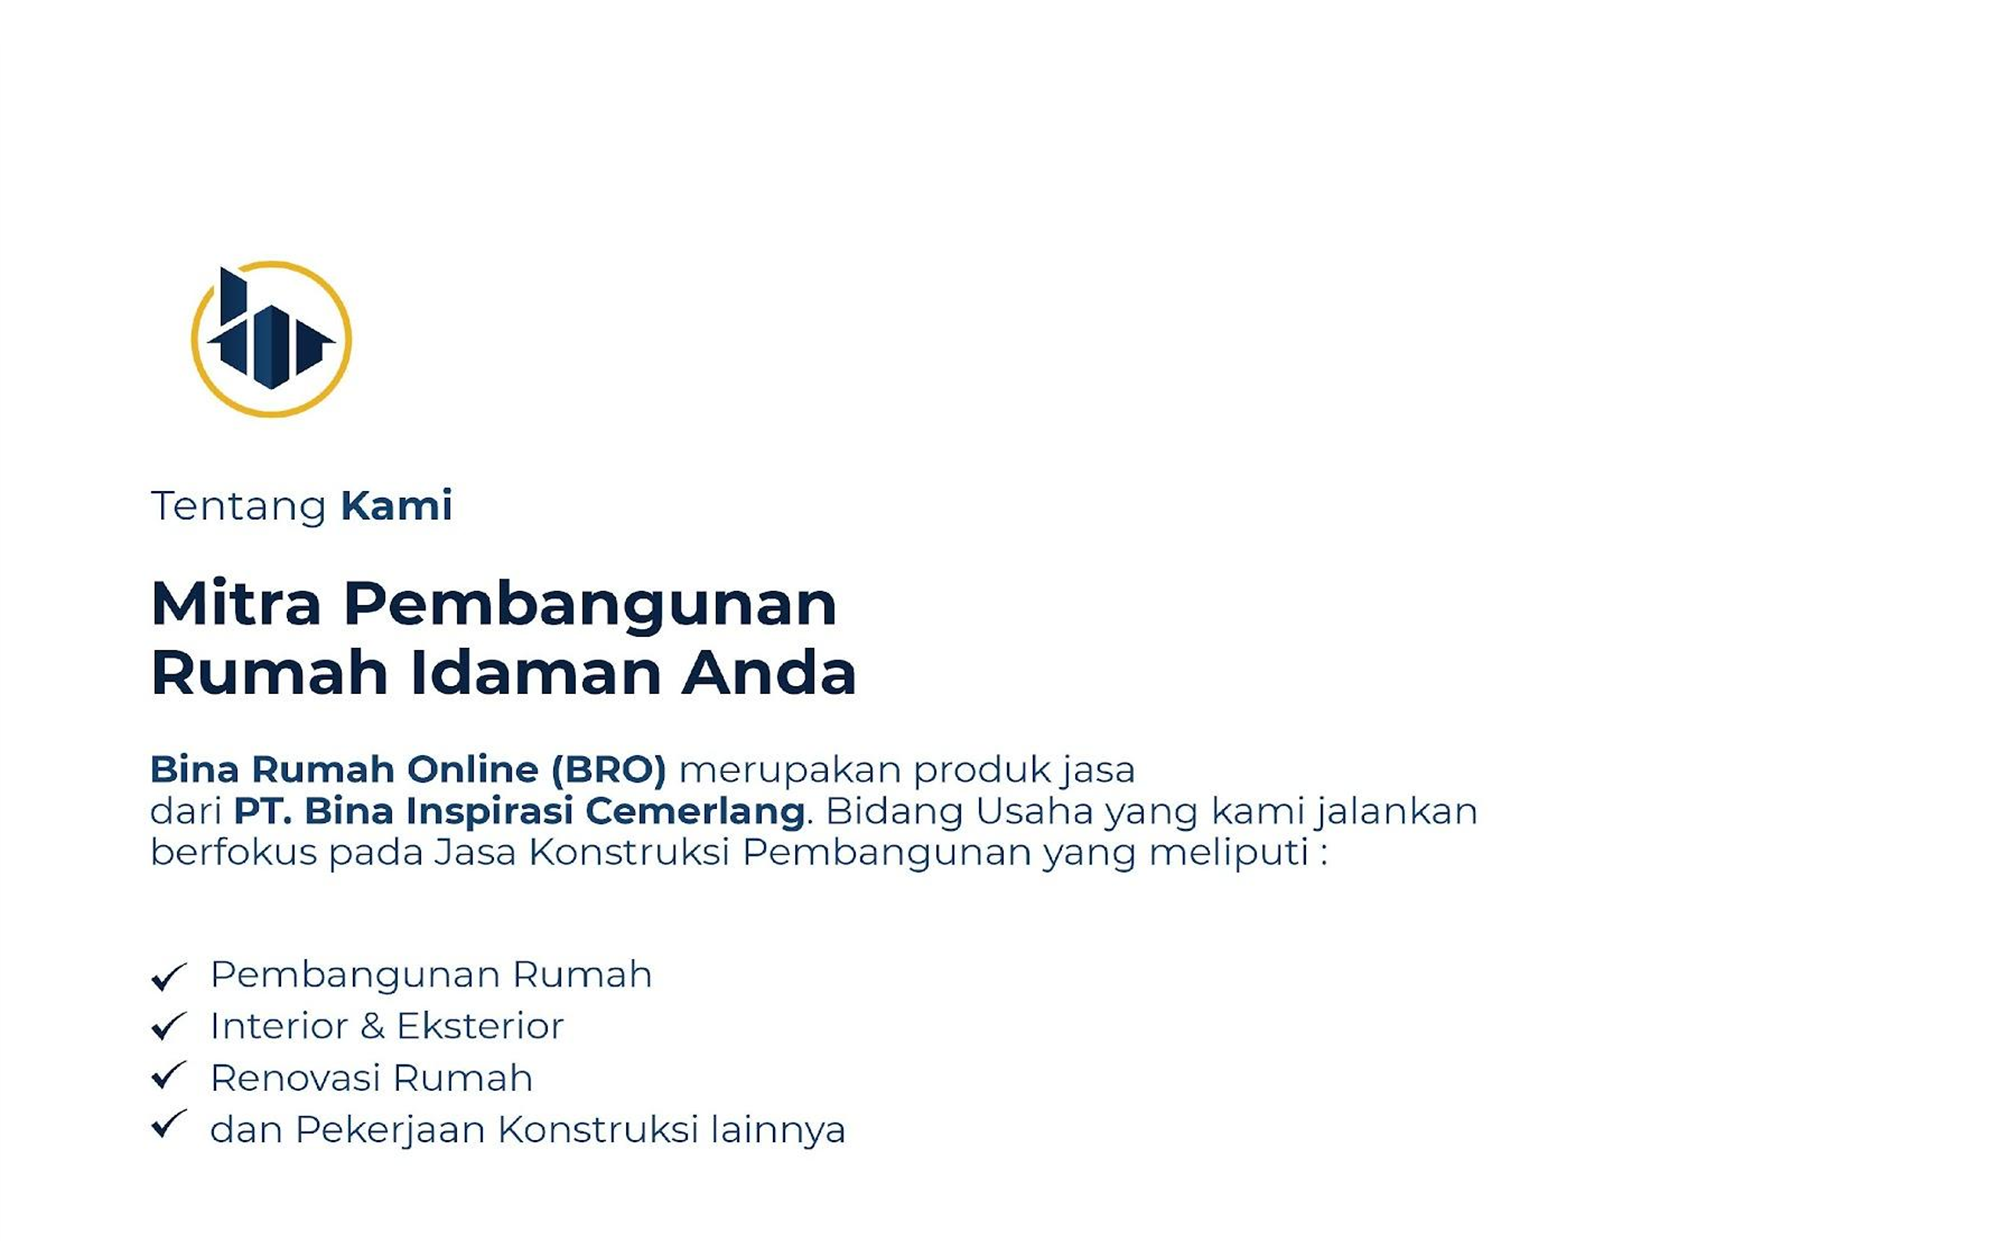
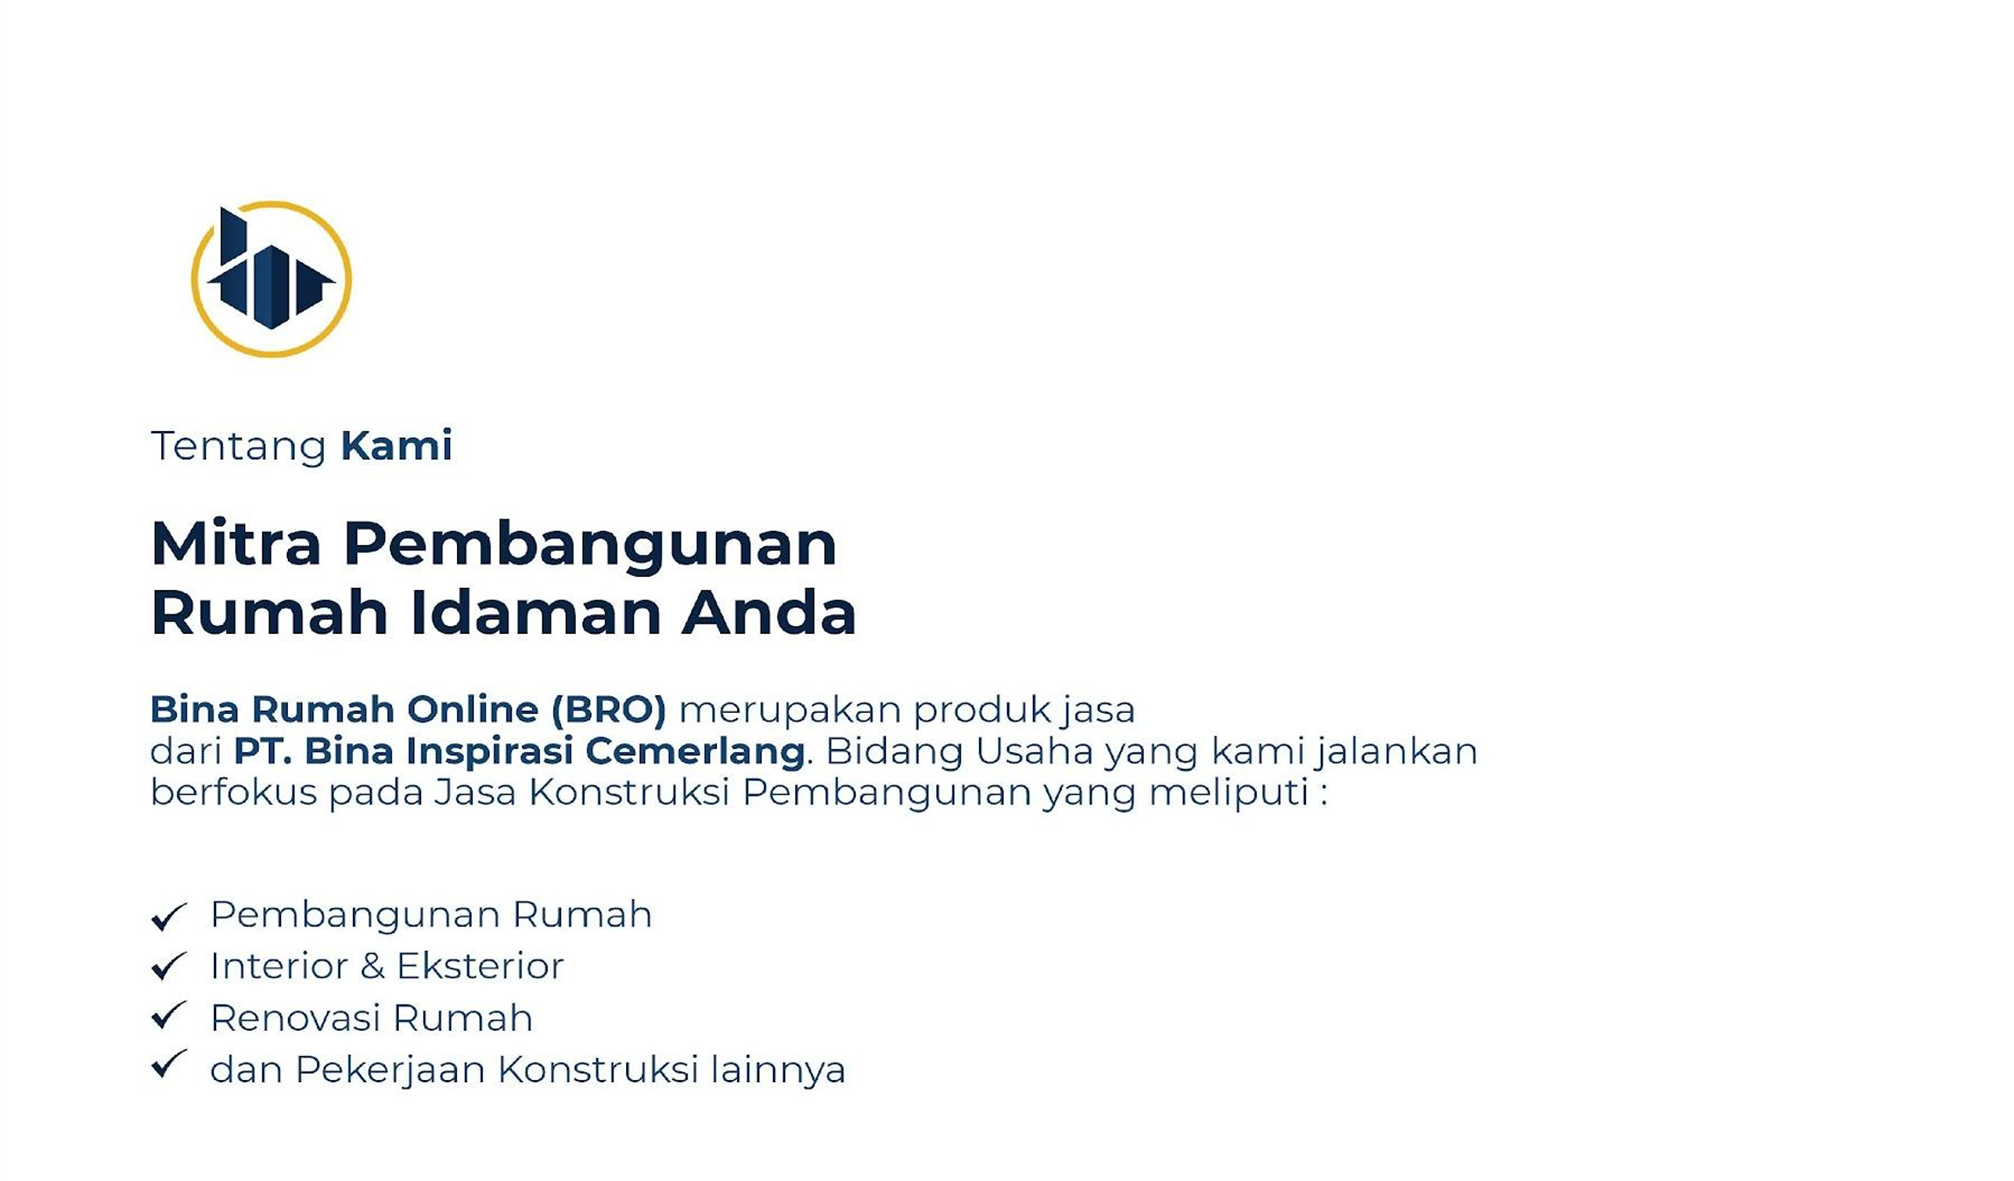
perubahan size dari content

Changed region(s): [[0.0616, 0.3658, 0.7388, 0.7011], [0.0616, 0.7621, 0.431, 0.945], [0.0924, 0.1524, 0.1847, 0.3353]]

diff --git a/resources/views/pdf/page8.blade.php b/resources/views/pdf/page8.blade.php
@@ -9,44 +9,46 @@
 </head>
 
 <style>
-    table {
-        /* font-family: Arial, Helvetica, sans-serif; */
-    }
 
-    td {
-        padding: 15px;
-    }
+.tabledua{
+    padding: 5px;
+}
+
+.tdpartdua{
+}
+
+
 </style>
 
 <body>
-    <table border="1" style="margin-left: 300px">
+    <table border="1" style="">
         <tr>
-            <td><img style="width: 800px;" src="{{ public_path('images/page3.png') }}" alt=""></td>
+            <td><img style="" src="{{ public_path('images/page3.png') }}" alt=""></td>
             <td>
-                <table border="1" style="width: 300px">
+                <table border="1" style="width: 300px;" class="tabledua">
                     <tr>
-                        <td style="text-align:center">
+                        <td class="tdpartdua" style="text-align:center;">
                             <p>ID Klien</p>
                             <hr>
                             <h4>BRO-CK-00169RIZKI</h4>
                         </td>
                     </tr>
                     <tr>
-                        <td style="text-align:center">
+                        <td class="tdpartdua" style="text-align:center">
                             <p>PROYEK</p>
                             <hr>
                             <h4>PAKET BANGUN RUMAH CUSTOM-BRO RUMAH RIZKI</h4>
                         </td>
                     </tr>
                     <tr>
-                        <td style="text-align:center">
+                        <td class="tdpartdua" style="text-align:center">
                             <p>LOKASI</p>
                             <hr>
                             <h4>PERUMAHAN GIRIYA SEPAKAT KEL.CILANGKAP KEC.CIPAYUNG, JAKARTA TIMUR</h4>
                         </td>
                     </tr>
                     <tr>
-                        <td style="text-align:center">
+                        <td class="tdpartdua" style="text-align:center">
                             <p>DEVELOPMENT</p>
                             <hr>
                             <br>
@@ -54,14 +56,14 @@
                         </td>
                     </tr>
                     <tr>
-                        <td style="text-align:center">
+                        <td class="tdpartdua" style="text-align:center">
                             <p>JUDUL GAMBAR</p>
                             <hr>
                             <H4>LAYOUT EKSISTING</H4>
                         </td>
                     </tr>
                     <tr>
-                        <td style="text-align:center">
+                        <td class="tdpartdua" style="text-align:center">
                             <p>
                                 DISETUJUI OLEH
                                 <br>
@@ -69,55 +71,75 @@
                                     (KLIEN BRO)
                                 </span>
                             </p>
-                            <div class="space" style="height: 500px"><br><br>
+                            <div class="space" style="height: 500px"><br><br><br>
                                 <hr>
                             </div>
                         </td>
                     </tr>
                     <tr>
-                        <td style="text-align: center">
+                        <td class="tdpartdua" style="text-align: center">
                             <p>CEO BINA RUMAH ONLINE (BRO)</p>
-                            <div class="space" style="height: 300px"><br><br>
+                            <div class="space" style="height: 300px"><br><br> <br>
                                 <hr>
                             </div>
                         </td>
                     </tr>
                     <tr>
-                        <td>
-                                <table  style="width: 100%; text-align: center; height:500px;">
+                        {{-- <td>
+                                <table style="width: 100%; text-align: center; height:200px;">
                                     <tr>
                                         <td>CIVIL</td>
                                         <td>Marketing</td>
                                     </tr>
                                     <br>
                                     <br>
+                                    <tr>
+                                        <td><hr></td>
+                                        <td><hr></td>
+                                    </tr>
+                                </table>
+                        </td> --}}
+                        <td>
+                            <table style="text-align: center; width: 100%;">
+                                <tr>
+                                    <td>CIVIL</td>
+                                    <br>
+                                    <br>
+                                    <br>
+                                    <br>
+                                    <td>MARKETING</td>
+                                </tr>
+                                <br>
+                                <br>
+                                <br>
+                                <br>
+                                <tr>
+                                    <td><hr></td>
+                                    <td><hr></td>
+                                </tr>
+                            </table>
+                        </td>
+                    </tr>
+                    <tr>
+                        <td style="border: 1px solid black">
+                                <table style="width: 100%; text-align: center; height:200px;">
+                                    <tr>
+                                        <td>No</td>
+                                        <td>Revisi</td>
+                                        <td>Skala</td>
+                                    </tr>
                                     <tr style="margin: 50px">
+                                        <td><b>01</b></td>
+                                        <td></td>
+                                        <td><b>1:75</b></td>
+                                    </tr>
+                                    <tr>
+                                        <td><hr></td>
                                         <td><hr></td>
                                         <td><hr></td>
                                     </tr>
                                 </table>
                         </td>
-                        <tr>
-                            <td>
-                                    <table  style="width: 100%; text-align: center; height:200px;">
-                                        <tr>
-                                            <td>No</td>
-                                            <td>Revisi</td>
-                                            <td>Skala</td>
-                                        </tr>
-                                        <tr style="margin: 50px">
-                                            <td><b>01</b></td>
-                                            <td></td>
-                                            <td><b>1:75</b></td>
-                                        </tr>
-                                        <tr>
-                                            <td><hr></td>
-                                            <td><hr></td>
-                                            <td><hr></td>
-                                        </tr>
-                                    </table>
-                            </td>
-                        </tr>
                     </tr>
                 </table>
             </td>

diff --git a/resources/views/pdf/page2.blade.php b/resources/views/pdf/page2.blade.php
@@ -8,7 +8,7 @@
     <title>Document</title>
     <style>
         .content {
-            height: 700px;
+            height: 100%;
             background-size: 100% 100%;
             text-align: start;
             color: white;
@@ -18,7 +18,7 @@
         }
 
         .content h1 {
-            padding: 290px 0 0 80px;
+            padding: 360px 0 0 90px;
 
         }
     </style>
@@ -32,7 +32,7 @@
                 BRO-CK-0169-Rizki
             </b>
         </h1>
-        <h2 style="margin-left: 80px; letter-spacing: 2px;">
+        <h2 style="margin-left: 90px; letter-spacing: 2px;">
             Perumahan Griya Sepakat blok A8, Jakarta Timur
         </h2>
     </div>

diff --git a/resources/views/pdf/page1.blade.php b/resources/views/pdf/page1.blade.php
@@ -10,7 +10,7 @@
         .text {
             /* font-family: Arial, Helvetica, sans-serif; */
             font-size: 12px;
-            margin-left: 50px;
+            margin-left: 100px;
             margin-top: 50px;
             text-justify: inter-word;
             text-align: justify;
@@ -34,7 +34,7 @@
 </head>
 
 <body>
-    <img src={{ public_path('images/p.png') }} style="width:550px; margin-left: 40px" alt="">
+    <img src={{ public_path('images/p.png') }} style="width:700px; margin-left: 40px" alt="">
     <div class="paragraf-reponsive" style="width: 640">
         <div class="text">
             <p class="lokasi">Tangerang Selatan, 16 Mei 2024</p>

diff --git a/resources/views/pdf/page11.blade.php b/resources/views/pdf/page11.blade.php
@@ -21,7 +21,7 @@
 </head>
 
 <body>
-    <div class="page-sebelas" style="width: 80%; margin-left:100px">
+    <div class="page-sebelas" style="width: 80%; padding:40px;">
         <h2 style="text-align: start">Hasil Tinjauan Desain / Lapangan</h2>
         <p style="letter-spacing: 0.2px">Adapun hasil tinjauan lapangan Adapun hasil tinjauan lapangan melalui gambar
             yang dikirim via WhatsApp format skp. yang telah ditinjau oleh tim Bina Rumah Online (BRO), maka terdapat

diff --git a/app/Http/Controllers/PdfController.php b/app/Http/Controllers/PdfController.php
@@ -33,7 +33,11 @@ class PdfController extends Controller
 
 
         $mpdf = new Mpdf([
-            'fontDir' => array_merge($fontDirs, [
+                'margin_left' => 0,
+                'margin_right' => 0,
+                'margin_top' => 0,
+                'margin_bottom' => 0,
+                'fontDir' => array_merge($fontDirs, [
                 public_path('font/Montserrat/static/'),
             ]),
             'fontdata' => $fontData + [

diff --git a/resources/views/pdf/page13.blade.php b/resources/views/pdf/page13.blade.php
@@ -12,8 +12,8 @@
     </style>
 </head>
 <body>
-    <div class="content" style="background: white;">
-        <img src="{{ public_path('images/page7.png') }}" style="width:1200px; margin-left:60px;" alt="">
+    <div class="content" style="background-image: url({{ public_path('images/page7.png') }});">
+        {{-- <img src="{{ public_path('images/page7.png') }}" style="width:1200px; margin-left:60px;" alt=""> --}}
     </div>
 </body>
 </html>

diff --git a/resources/views/pdf/page15.blade.php b/resources/views/pdf/page15.blade.php
@@ -12,8 +12,8 @@
     </style>
 </head>
 <body>
-    <div class="content" style="background: white;">
-        <img src="{{ public_path('images/page9.png') }}" style="width:1200px; margin-left:50px;" alt="">
+    <div class="content" style="background-image: url({{ public_path('images/page9.png') }});">
+        {{-- <img src="{{ public_path('images/page9.png') }}" style="width:1200px; margin-left:50px;" alt=""> --}}
     </div>
 </body>
 </html>

diff --git a/resources/views/pdf/page14.blade.php b/resources/views/pdf/page14.blade.php
@@ -12,8 +12,8 @@
     </style>
 </head>
 <body>
-    <div class="content" style="background: white;">
-        <img src="{{ public_path('images/page8.png') }}" style="width:1200px; margin-left:30px;" alt="">
+    <div class="content" style="background-image:url({{ public_path('images/page8.png') }});">
+        {{-- <img src="{{ public_path('images/page8.png') }}" style="width:1200px; margin-left:30px;" alt=""> --}}
     </div>
 </body>
 </html>

diff --git a/resources/views/pdf/page9.blade.php b/resources/views/pdf/page9.blade.php
@@ -12,8 +12,8 @@
     </style>
 </head>
 <body>
-    <div class="content" style="background: white;">
-        <img src="{{ public_path('images/page6.png') }}" style="width:1200px; margin-left:90px;" alt="">
+    <div class="content" style="background-image:url({{ public_path('images/page6.png') }});">
+        {{-- <img src="{{ public_path('images/page6.png') }}" style="" alt=""> --}}
     </div>
 </body>
 </html>

diff --git a/resources/views/pdf/page6.blade.php b/resources/views/pdf/page6.blade.php
@@ -12,8 +12,8 @@
     </style>
 </head>
 <body>
-    <div class="content" style="background: white;">
-        <img src="{{ public_path('images/page5.png') }}" style="width:1200px; margin-left:30px;" alt="">
+    <div class="content" style="background:url({{ public_path('images/page5.png') }});">
+        <img src="{{ public_path('images/page5.png') }}" style="width:1200px;" alt="">
     </div>
 </body>
 </html>

diff --git a/resources/views/pdf/page12.blade.php b/resources/views/pdf/page12.blade.php
@@ -17,7 +17,7 @@
 </head>
 
 <body>
-    <div class="page-duabelas" style="width: 80%; margin-left:50px;">
+    <div class="page-duabelas" style="width: 80%; padding:40px;">
         <h2>Layanan Kami</h2>
         <p>Adapun Jasa dan biaya yang kami tawarkan diatas, sudah termasuk dalam bentuk jasa sebagai berikut :</p>
         <ul style="">

diff --git a/resources/views/pdf/page4.blade.php b/resources/views/pdf/page4.blade.php
@@ -12,8 +12,7 @@
     </style>
 </head>
 <body>
-    <div class="content" style="background: white;">
-        <img src="{{ public_path('images/page3.png') }}" style="margin-left: 30px; width:1000px" alt="">
+    <div class="content" style="background:url({{ public_path('images/page3.png') }});">
     </div>
 </body>
 </html>
